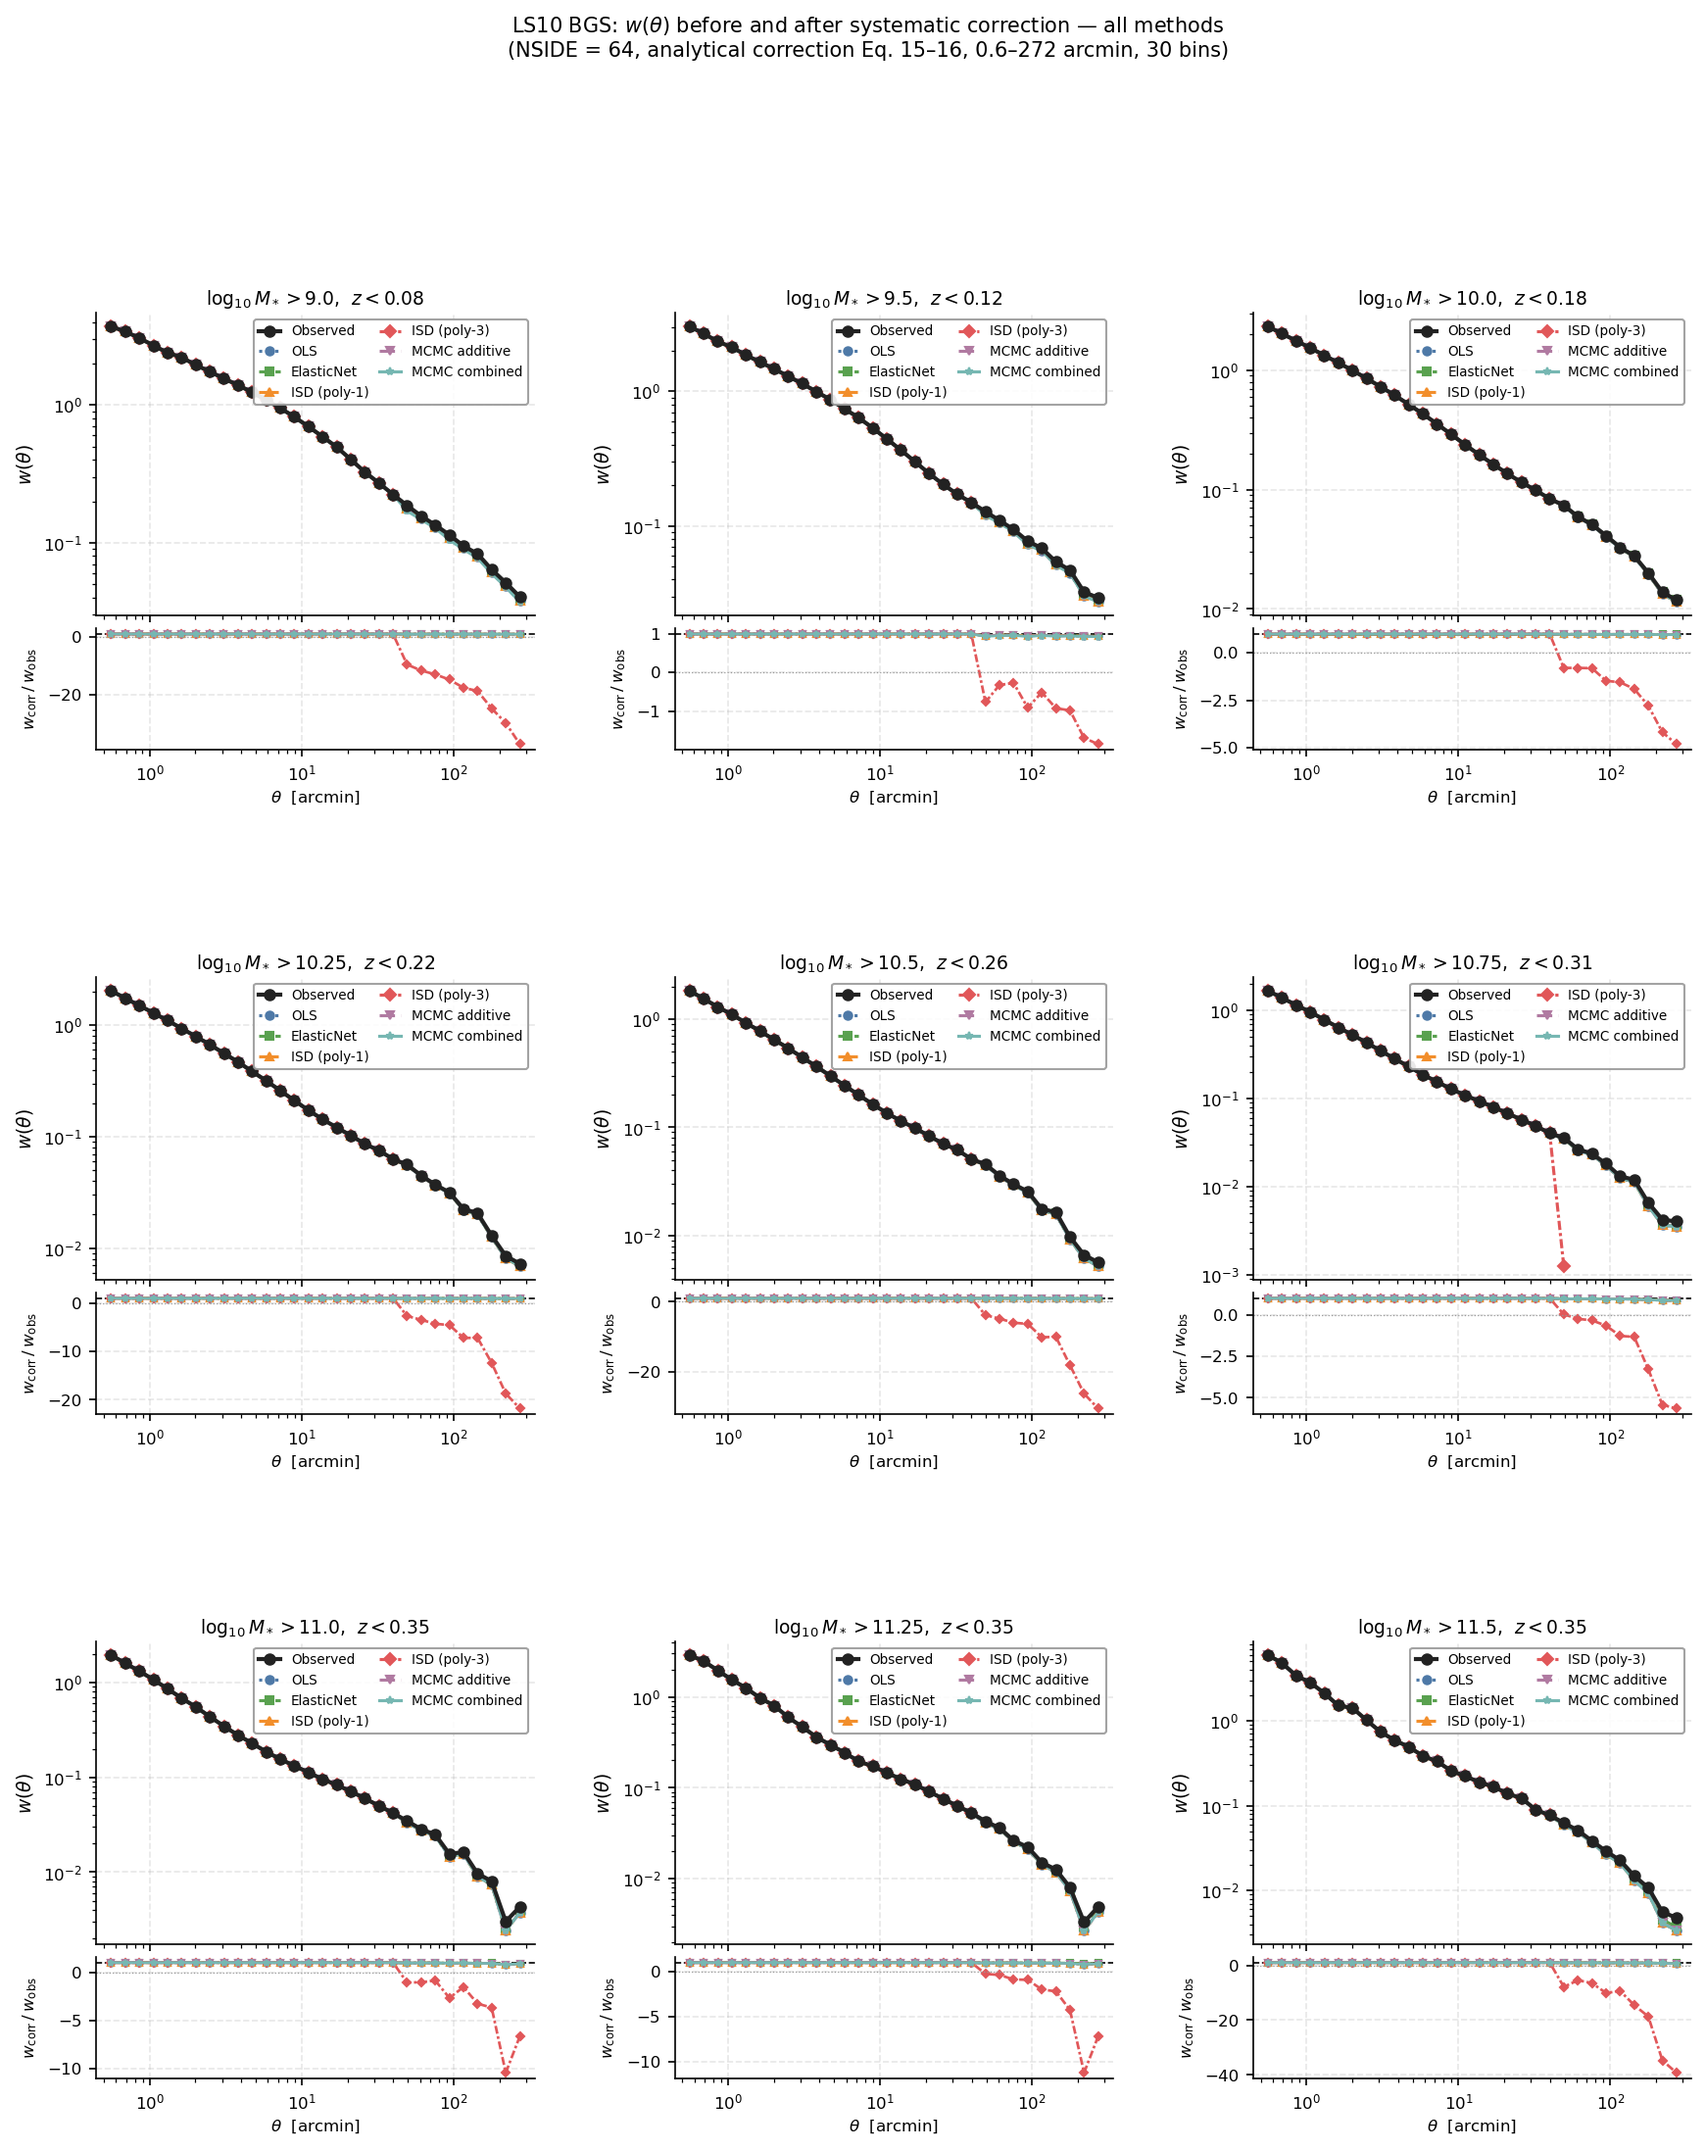
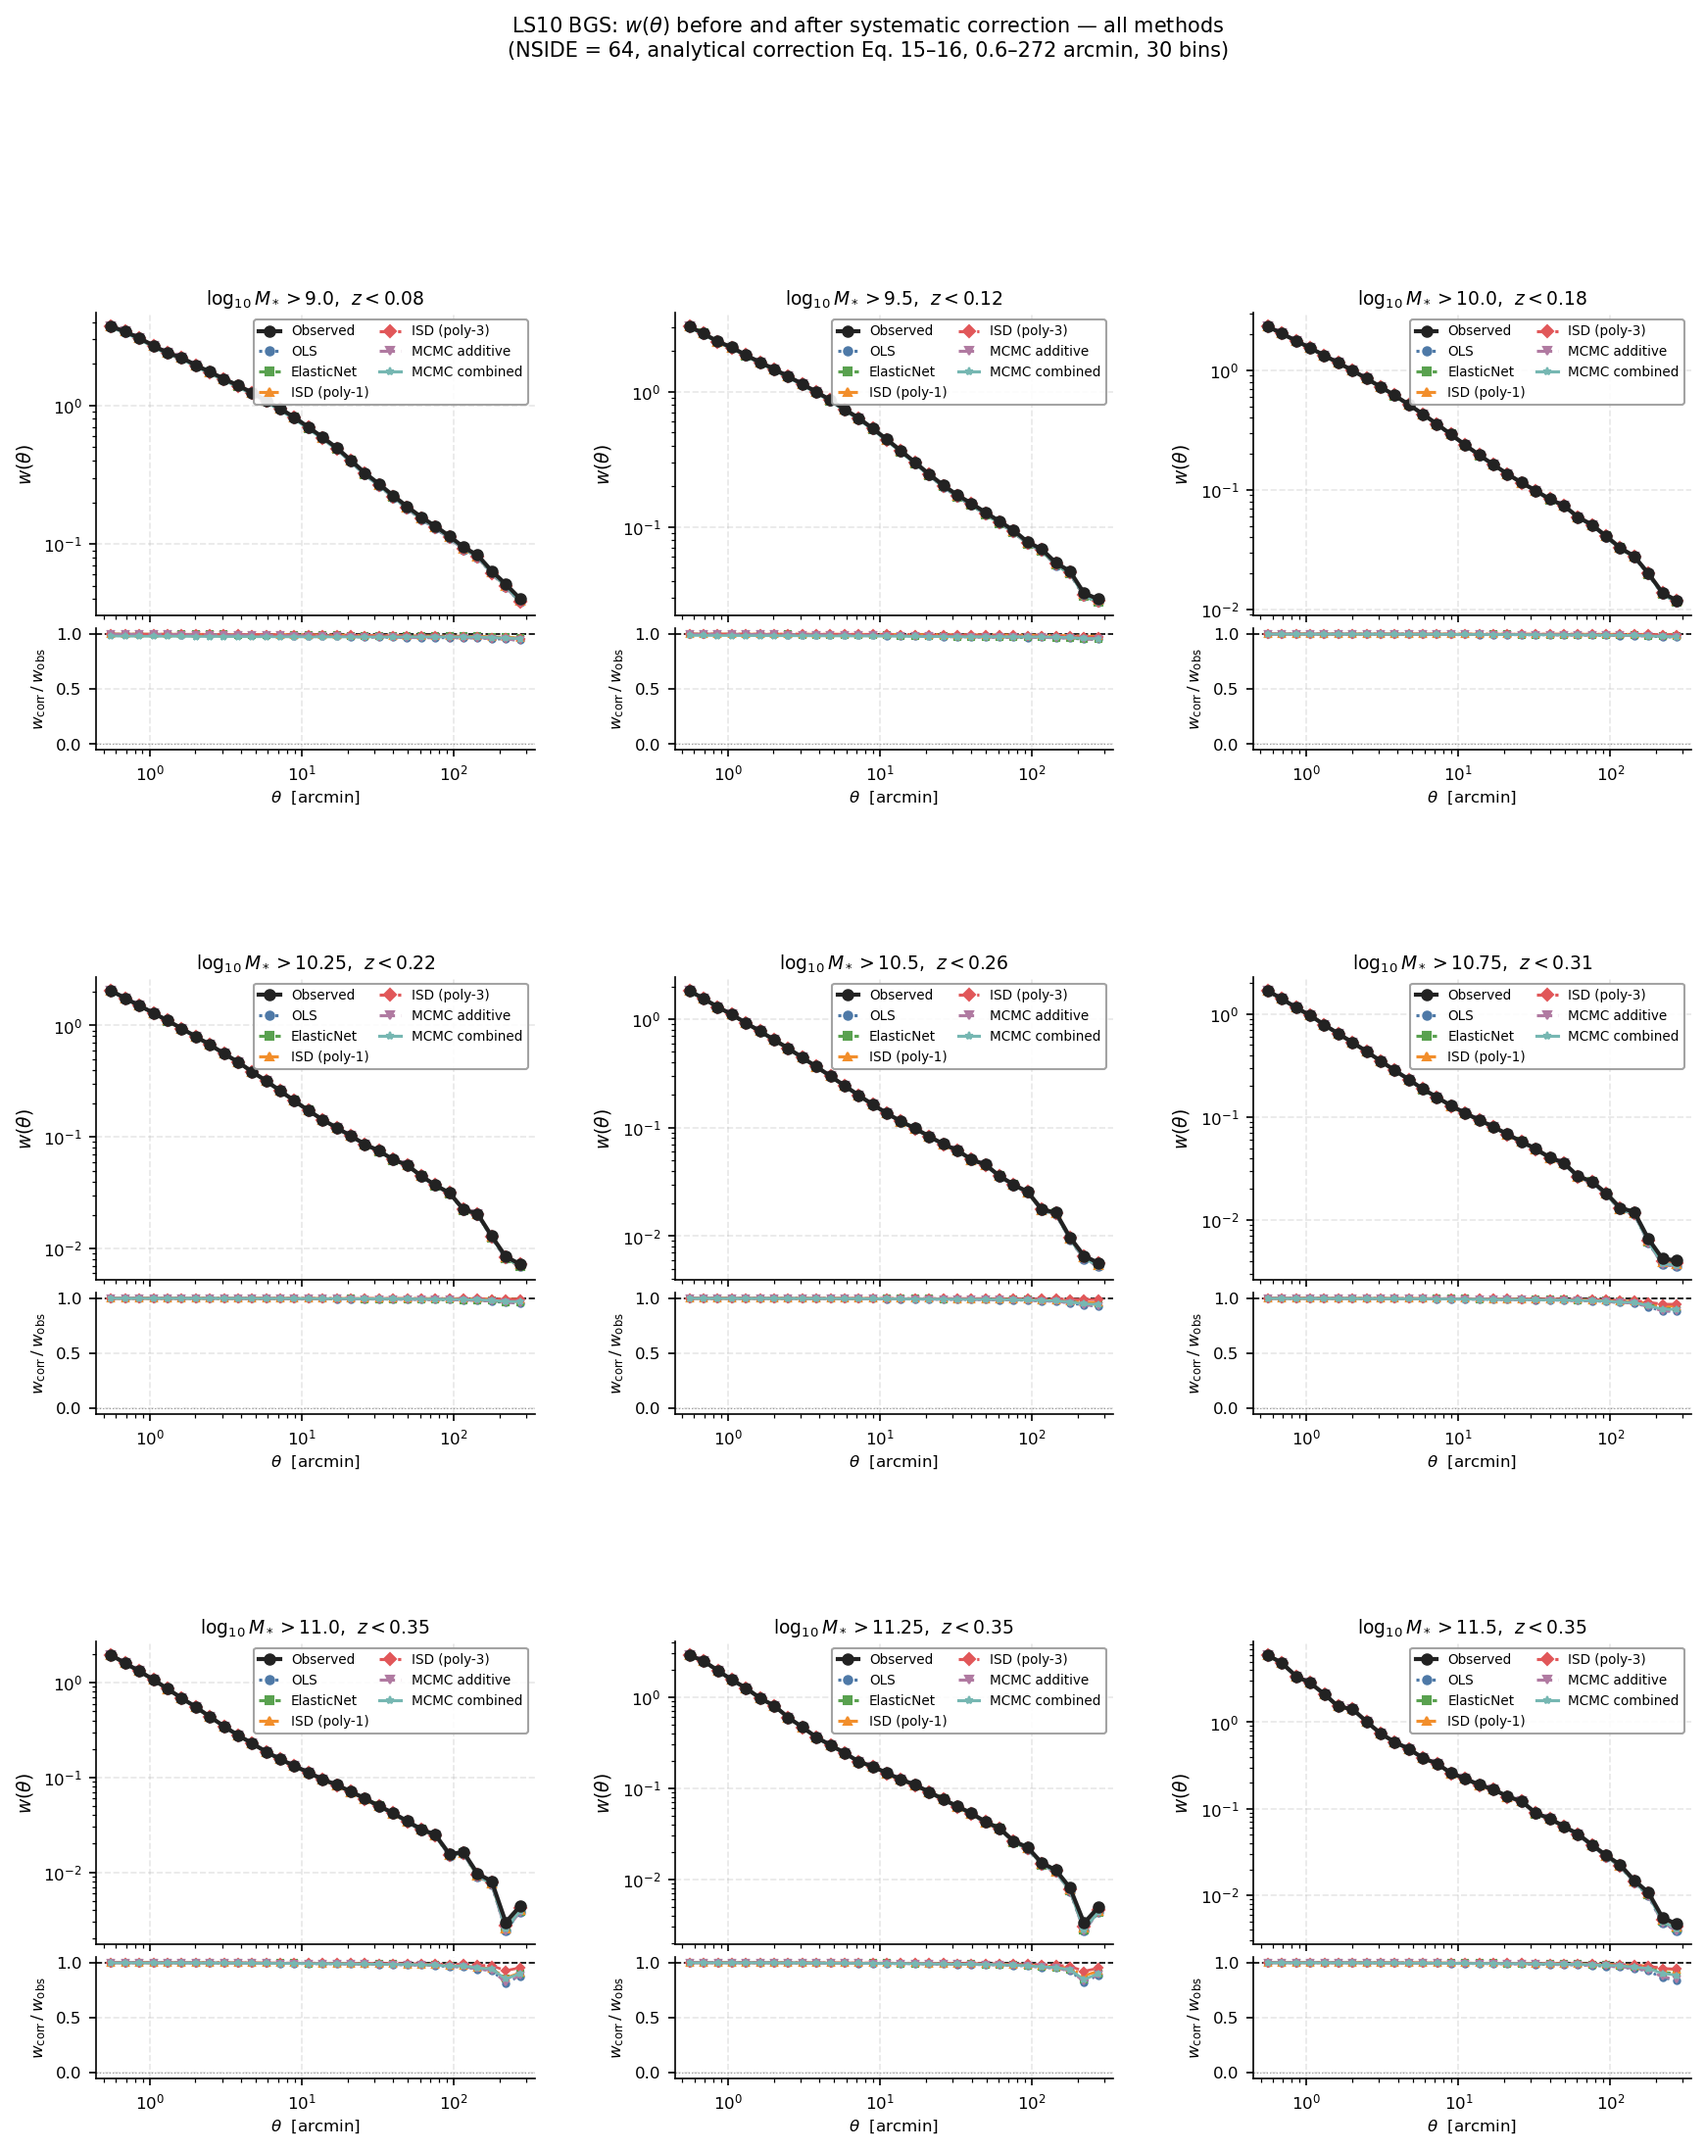
release: 1.3.0
The LS10 products are re-issued at NSIDE 32, 64 and 128 on a basis standardised over
the analysis footprint, with the template correlations measured from the galaxies.  All
27 pass the post-condition that refuses a cell whose correction overshoots the signal:
the corrected w(theta) stays between 0.815 and 0.995 of the observed one across every
method and sample at NSIDE 64, where ISD-3 previously reached -39.  The correction acts
in all 30 bins rather than 9.

The methods also converged on each other.  At NSIDE 64 the median rms|a_hat| is 0.0184
for OLS against 0.0074 for ISD-1, a factor 2.5, where the old basis gave a factor 35.

NSIDE 256 is not part of this release.  All nine cells hit the twelve-hour walltime
inside MCMC-comb, which takes 6.1 h at NSIDE 128 and has four times the pixels at 256.
No calibrated result depends on that resolution, and the products it would replace were
WEIGHTVER 1, so dropping them removes a stale version rather than leaving one.

The NSIDE-64 likelihood-ratio grid carries forward.  It was fitted on the previous
basis, and isolating the basis from the maximum-likelihood refinement moves lambda_LR
by a median of 0.7 % across the nine cells, under 2.5 % in eight of them, and +22 % in
one that already sits at the Monte-Carlo floor, where a larger statistic can only lower
the p-value.  That grid returns zero negative null draws in all nine cells, against 21
of 450 before the refinement.
[…]

diff --git a/README.md b/README.md
@@ -1,11 +1,11 @@
 # sys_mapping
 
-[![PyPI](https://img.shields.io/pypi/v/sys-mapping)](https://pypi.org/project/sys-mapping/1.2.0/)
+[![PyPI](https://img.shields.io/pypi/v/sys-mapping)](https://pypi.org/project/sys-mapping/1.3.0/)
 [![Docs](https://img.shields.io/badge/docs-latest-blue)](https://sys-mapping.readthedocs.io/en/latest/#)
 [![Tests](https://github.com/JohanComparat/sys_mapping/actions/workflows/tests.yml/badge.svg)](https://github.com/JohanComparat/sys_mapping/actions/workflows/tests.yml)
 [![codecov](https://codecov.io/gh/JohanComparat/sys_mapping/branch/main/graph/badge.svg)](https://codecov.io/gh/JohanComparat/sys_mapping)
 
-**PyPI:** https://pypi.org/project/sys-mapping/1.2.0/
+**PyPI:** https://pypi.org/project/sys-mapping/1.3.0/
 **Docs:** https://sys-mapping.readthedocs.io/en/latest/#
 
 Joint inference of multiplicative and additive systematics in galaxy
@@ -400,10 +400,10 @@ pip install 'jax[cuda12_pip]' \
 
 ## Installation
 
-Install from [PyPI](https://pypi.org/project/sys-mapping/1.2.0/):
+Install from [PyPI](https://pypi.org/project/sys-mapping/1.3.0/):
 
 ```bash
-pip install sys-mapping==1.2.0
+pip install sys-mapping==1.3.0
 ```
 
 Or install from source:

diff --git a/CHANGELOG.md b/CHANGELOG.md
@@ -4,6 +4,22 @@ All notable changes to `sys_mapping` are documented here.
 
 ## [Unreleased]
 
+## [1.3.0] — 2026-09-14
+
+Three algorithms were doing something other than what they were named for, and the
+LS10 products are re-issued on a basis where the amplitudes mean what they say.
+
+`iterative_systematics_decontamination` now implements published ISD rather than a
+multivariate polynomial expansion.  The likelihood ratio is evaluated at two
+likelihood maxima, so it is non-negative and its magnitude carries meaning.  The
+template basis is standardised over the analysis footprint, and the template
+correlations are measured from the galaxies, so the two-point correction acts over the
+whole measured range instead of the nine widest bins of thirty.
+
+The 27 re-issued products at NSIDE 32, 64 and 128 carry `WEIGHTVER = 3`.  Their
+amplitudes are not comparable with a version 2 product, whose basis is normalised
+somewhere other than where the fit used it.
+
 ### Added
 
 - **`apply_nonlinear_contamination`, `TemplateResponse`, `evaluate_response`,

diff --git a/docs/roadmap.rst b/docs/roadmap.rst
@@ -193,10 +193,8 @@ Three places where a number is quoted that should not be:
   *Action:* replace it.
 
 **Release hygiene.**
-``pyproject.toml`` is at 1.2.0, the tag ``v1.2.0`` exists with 20 commits after it,
-and ``CHANGELOG.md`` stops at 1.1.0.  Cut 1.3.0 covering the covariance module,
-mock-calibrated LRT, :math:`w(\theta)` covariance, detectability law, NUTS
-``chain_method``, and the sweep runner.
+``pyproject.toml`` is at 1.3.0 and ``CHANGELOG.md`` carries a dated 1.3.0 section.  The
+tag is cut from the commit that re-issues the LS10 products at ``WEIGHTVER = 3``.
 
 ----
 
